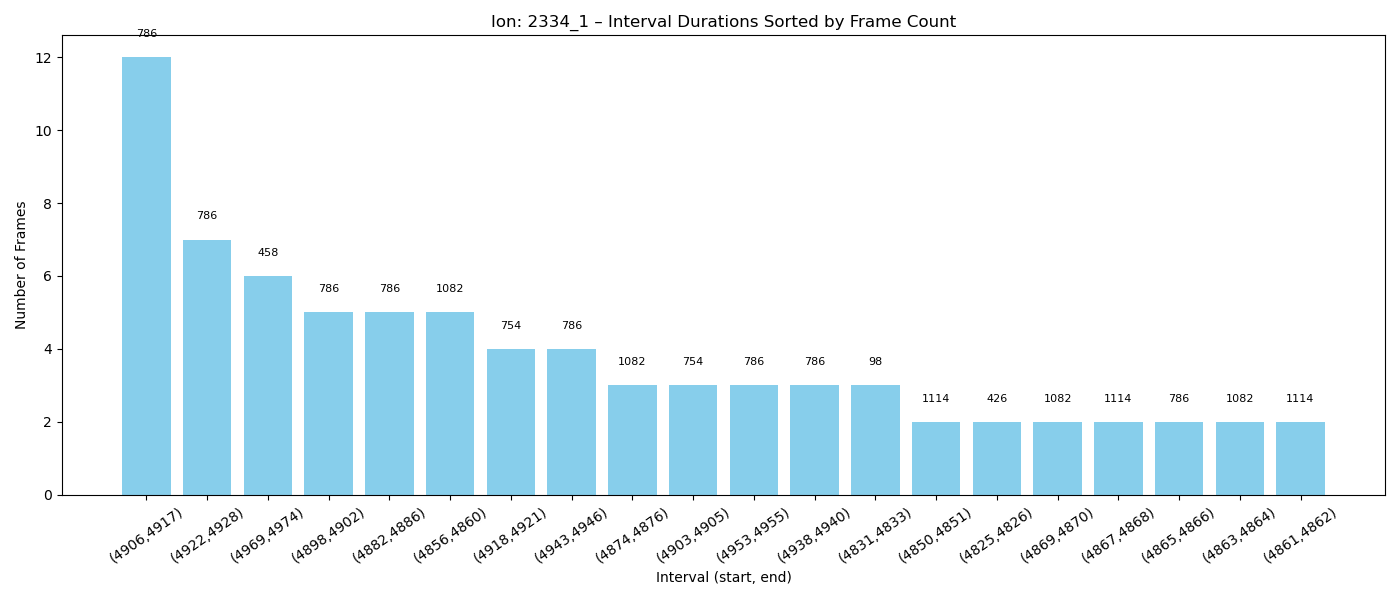
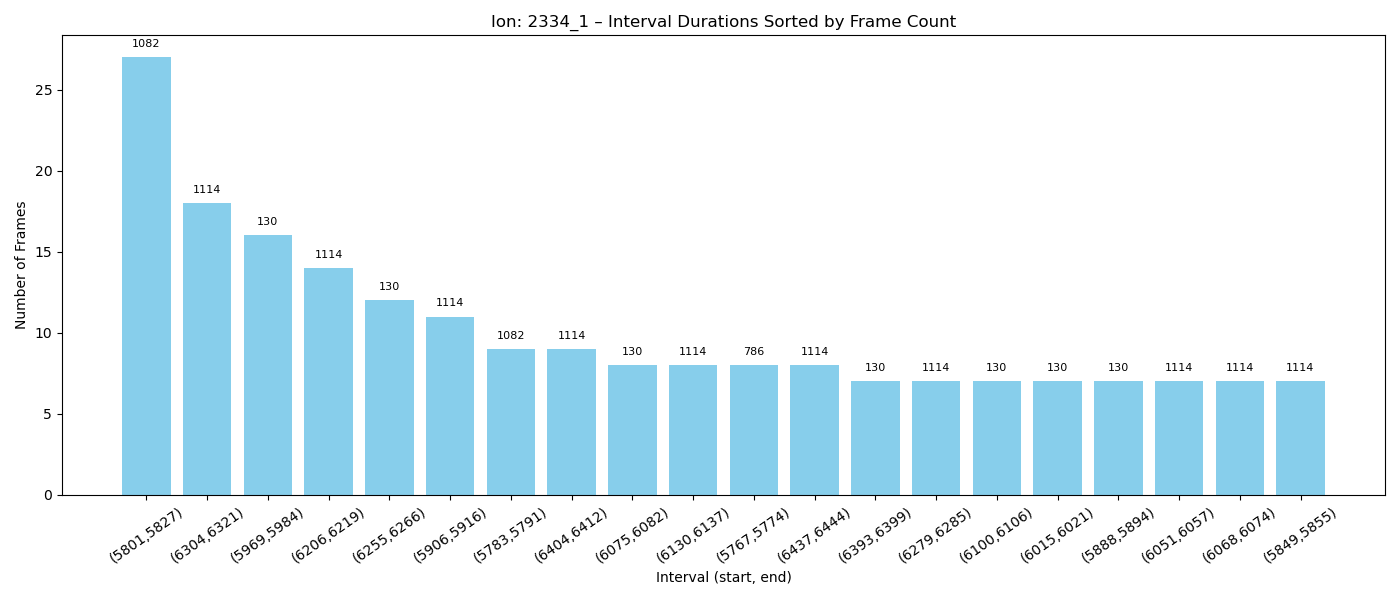
stuck ions to sf at electric filed calculations

diff --git a/version1/analysis/electric_field_analysis.py b/version1/analysis/electric_field_analysis.py
@@ -74,8 +74,10 @@ def add_totals_to_result(result, axis_unit_vector):
 
 
 def compute_frame_field(u, frame, point, glu_residues, asn_residues,
-                        pip2_resids, exclude_backbone, headgroup_atoms,
-                        axis_unit_vector, ion_selection="resname K+ K", k=332):
+                        pip2_resids, exclude_backbone, sf_stuck_ions, headgroup_atoms,
+                        axis_unit_vector, ion_selection="resname K+ K", k=332,
+                        distance_cutoff=15.0):  # Å default threshold
+
     u.trajectory[frame]
 
     def collect_pa_ch(atom_group, exclude_backbone=False, allowed_names=None):
@@ -125,23 +127,37 @@ def compute_frame_field(u, frame, point, glu_residues, asn_residues,
     up_list, down_list = [], []
     up_total, down_total = np.zeros(3), np.zeros(3)
 
+    stuck_resid = sf_stuck_ions.get(str(frame), {}).get("resid", None)
+
     for ion in u.select_atoms(ion_selection):
+        # Skip the SF-stuck ion for this frame
+        if stuck_resid is not None and ion.resid == stuck_resid:
+            continue
+
+        # Compute distance to point
+        dist = np.linalg.norm(point - ion.position)
+        if dist > distance_cutoff:
+            continue  # ❌ skip distant ions
+
+        # Compute electric field from this ion at the point
         field = compute_electric_field_at_point(point, [ion.position], [ion.charge], k)
+
         entry = {
             "ion_id": int(ion.index),
             "field": field.tolist(),
             "magnitude": float(np.linalg.norm(field)),
             "axial": float(np.dot(field, axis_unit_vector)),
-            "distance": float(np.linalg.norm(point - ion.position))
+            "distance": float(dist)
         }
-        if abs(ion.position[2] - point[2]) < 1:
-            continue
+
+        # Classify based on Z-position relative to the point
         if ion.position[2] > point[2]:
             up_list.append(entry)
             up_total += field
         else:
             down_list.append(entry)
             down_total += field
+
 
     result["ionic_up_fields"] = up_list
     result["ionic_down_fields"] = down_list
@@ -168,7 +184,7 @@ def detect_pip2_resids(u, pip2_resname):
 
 
 def run_field_analysis(u, sf_residues, hbc_residues, glu_residues, asn_residues,
-                       pip2_resname, headgroup_atoms, exclude_backbone,
+                       pip2_resname, headgroup_atoms, exclude_backbone, sf_stuck_ions,
                        output_path="sf_field_results.json",
                        point_strategy="sf_com", fixed_point=None,
                        ion_selection="resname K+ K"):
@@ -209,7 +225,7 @@ def run_field_analysis(u, sf_residues, hbc_residues, glu_residues, asn_residues,
 
         frame_result = compute_frame_field(
             u, ts.frame, point, glu_residues, asn_residues,
-            pip2_resids, exclude_backbone, headgroup_atoms,
+            pip2_resids, exclude_backbone, sf_stuck_ions, headgroup_atoms,
             axis_unit_vector, ion_selection, k=332
         )
         field_by_frame[int(ts.frame)] = add_totals_to_result(frame_result, axis_unit_vector)
@@ -513,7 +529,7 @@ from analysis.converter import convert_to_pdb_numbering
 
 
 def generate_electric_field_heatmap_along_axis(u, sf_residues, hbc_residues, glu_residues, asn_residues,
-                                 pip2_resname, headgroup_atoms, exclude_backbone,
+                                 pip2_resname, headgroup_atoms, exclude_backbone, sf_stuck_ions,
                                  ion_selection="resname K+ K", n_points=20,
                                  start=0, end=None, channel_type="G2", k=332,
                                  mode="axial",  # or "magnitude"
@@ -553,7 +569,7 @@ def generate_electric_field_heatmap_along_axis(u, sf_residues, hbc_residues, glu
             for point in points_along_axis:
                 result = compute_frame_field(
                     u, ts.frame, point, glu_residues, asn_residues,
-                    pip2_resids, exclude_backbone, headgroup_atoms,
+                    pip2_resids, exclude_backbone, sf_stuck_ions, headgroup_atoms,
                     axis_unit_vector, ion_selection, k
                 )
                 result = add_totals_to_result(result, axis_unit_vector)

diff --git a/version1/analysis/find_closest_unentered_ion_to_upper_gate.py b/version1/analysis/find_closest_unentered_ion_to_upper_gate.py
@@ -1,0 +1,64 @@
+import numpy as np
+import os
+import json
+from tqdm import tqdm
+
+def find_closest_unentered_ion_to_upper_gate(u, upper_gate_residues, output_path=None, use_CA=False):
+    """
+    Finds the K+ ion closest to the upper gate center at each frame,
+    but only among those that haven't crossed the gate (i.e., z >= gate center z).
+    
+    Parameters:
+    - u: MDAnalysis Universe
+    - upper_gate_residues: list of resid integers
+    - gate_num: 4 or 5, used to determine gate geometry logic
+    - output_path: folder to save JSON output, if desired
+    
+    Returns:
+    - result: dictionary of frame -> {"resid": ion_resid, "distance": dist}
+    """
+    
+    result = {}
+
+    for ts in tqdm(u.trajectory, desc="Scanning for closest unentered ions"):
+        # Compute upper gate center dynamically
+        atom_indices = []
+        for resid in upper_gate_residues:
+            if use_CA:
+                atoms = u.select_atoms(f"resid {resid} and name CA")
+            else:
+                atoms = u.select_atoms(f"resid {resid}")
+                coords = atoms.positions
+                upper_index = coords[:, 2].argsort()[0]  # highest atom (lowest z)
+                atoms = atoms[[upper_index]]
+            atom_indices.append(atoms[0].index)
+
+        upper_center = u.atoms[atom_indices].center_of_mass()
+        gate_z = upper_center[2]
+
+        # Get all K+ ions
+        ions = u.select_atoms("resname K+ or name K")
+        
+        # Filter ions above the gate
+        unentered_ions = [ion for ion in ions if ion.position[2] >= gate_z]
+
+        if not unentered_ions:
+            continue  # No ions above the gate
+
+        # Find the closest one
+        distances = [np.linalg.norm(ion.position - upper_center) for ion in unentered_ions]
+        min_index = np.argmin(distances)
+        closest_ion = unentered_ions[min_index]
+
+        result[ts.frame] = {
+            "resid": int(closest_ion.resid),
+            "distance": float(distances[min_index])
+        }
+
+    if output_path:
+        os.makedirs(output_path, exist_ok=True)
+        with open(os.path.join(output_path, "closest_sf_unentered_ions.json"), "w") as f:
+            json.dump(result, f, indent=2)
+        print(f"✅ Saved results to {output_path}/closest_sf_unentered_ions.json")
+
+    return result

diff --git a/version1/main.py b/version1/main.py
@@ -27,7 +27,7 @@ from analysis.find_clean_stuck_frames import find_clean_stuck_frames
 from analysis.force_extractor import analyze_frame_for_ion
 from analysis.electric_field_analysis import run_field_analysis, plot_field_magnitudes_from_json, significance_field_analysis, generate_electric_field_heatmap_along_axis
 from analysis.best_alignment import run_best_combo_per_ion_from_json
-
+from analysis.find_closest_unentered_ion_to_upper_gate import find_closest_unentered_ion_to_upper_gate
 
 def main():
     parser = argparse.ArgumentParser(description="Run dual-channel ion permeation analysis.")
@@ -126,7 +126,7 @@ def main():
         # start_frame = 5550
         # start_frame = 6500
         # end_frame = 1250
-        run_number = 4
+        run_number = 2
         
 
         results_dir = Path(f"{data_path}/results_G2")
@@ -426,6 +426,8 @@ def main():
         
         plot_top_intervals_by_frames(residue_clusters, max_bar_number=20)
         
+        closest_unentered_ion_to_upper_gate = find_closest_unentered_ion_to_upper_gate(u, sf_residues, results_dir)
+        
         if args.do_permeation_analysis:
             permeation_analysis = PermeationAnalyzer(
                 ch2_permation_residues=ch2_permation_residues,
@@ -568,7 +570,7 @@ def main():
 
             run_field_analysis(
                 u, sf_residues, hbc_residues, glu_residues, asn_residues,
-                pip2_resname="PIP", headgroup_atoms=headgroup_atoms, exclude_backbone=False,
+                pip2_resname="PIP", headgroup_atoms=headgroup_atoms, exclude_backbone=False, sf_stuck_ions = closest_unentered_ion_to_upper_gate,
                 output_path=electric_field_results_dir / "sf_min_atoms_electric_field_results.json",
                 point_strategy="sf_min_atoms"
             )
@@ -589,6 +591,7 @@ def main():
                     pip2_resname="PIP",
                     headgroup_atoms=headgroup_atoms,
                     exclude_backbone=False, 
+                    sf_stuck_ions = closest_unentered_ion_to_upper_gate,
                     start=start_frame, 
                     end=end_frame,
                     channel_type = channel_type,
